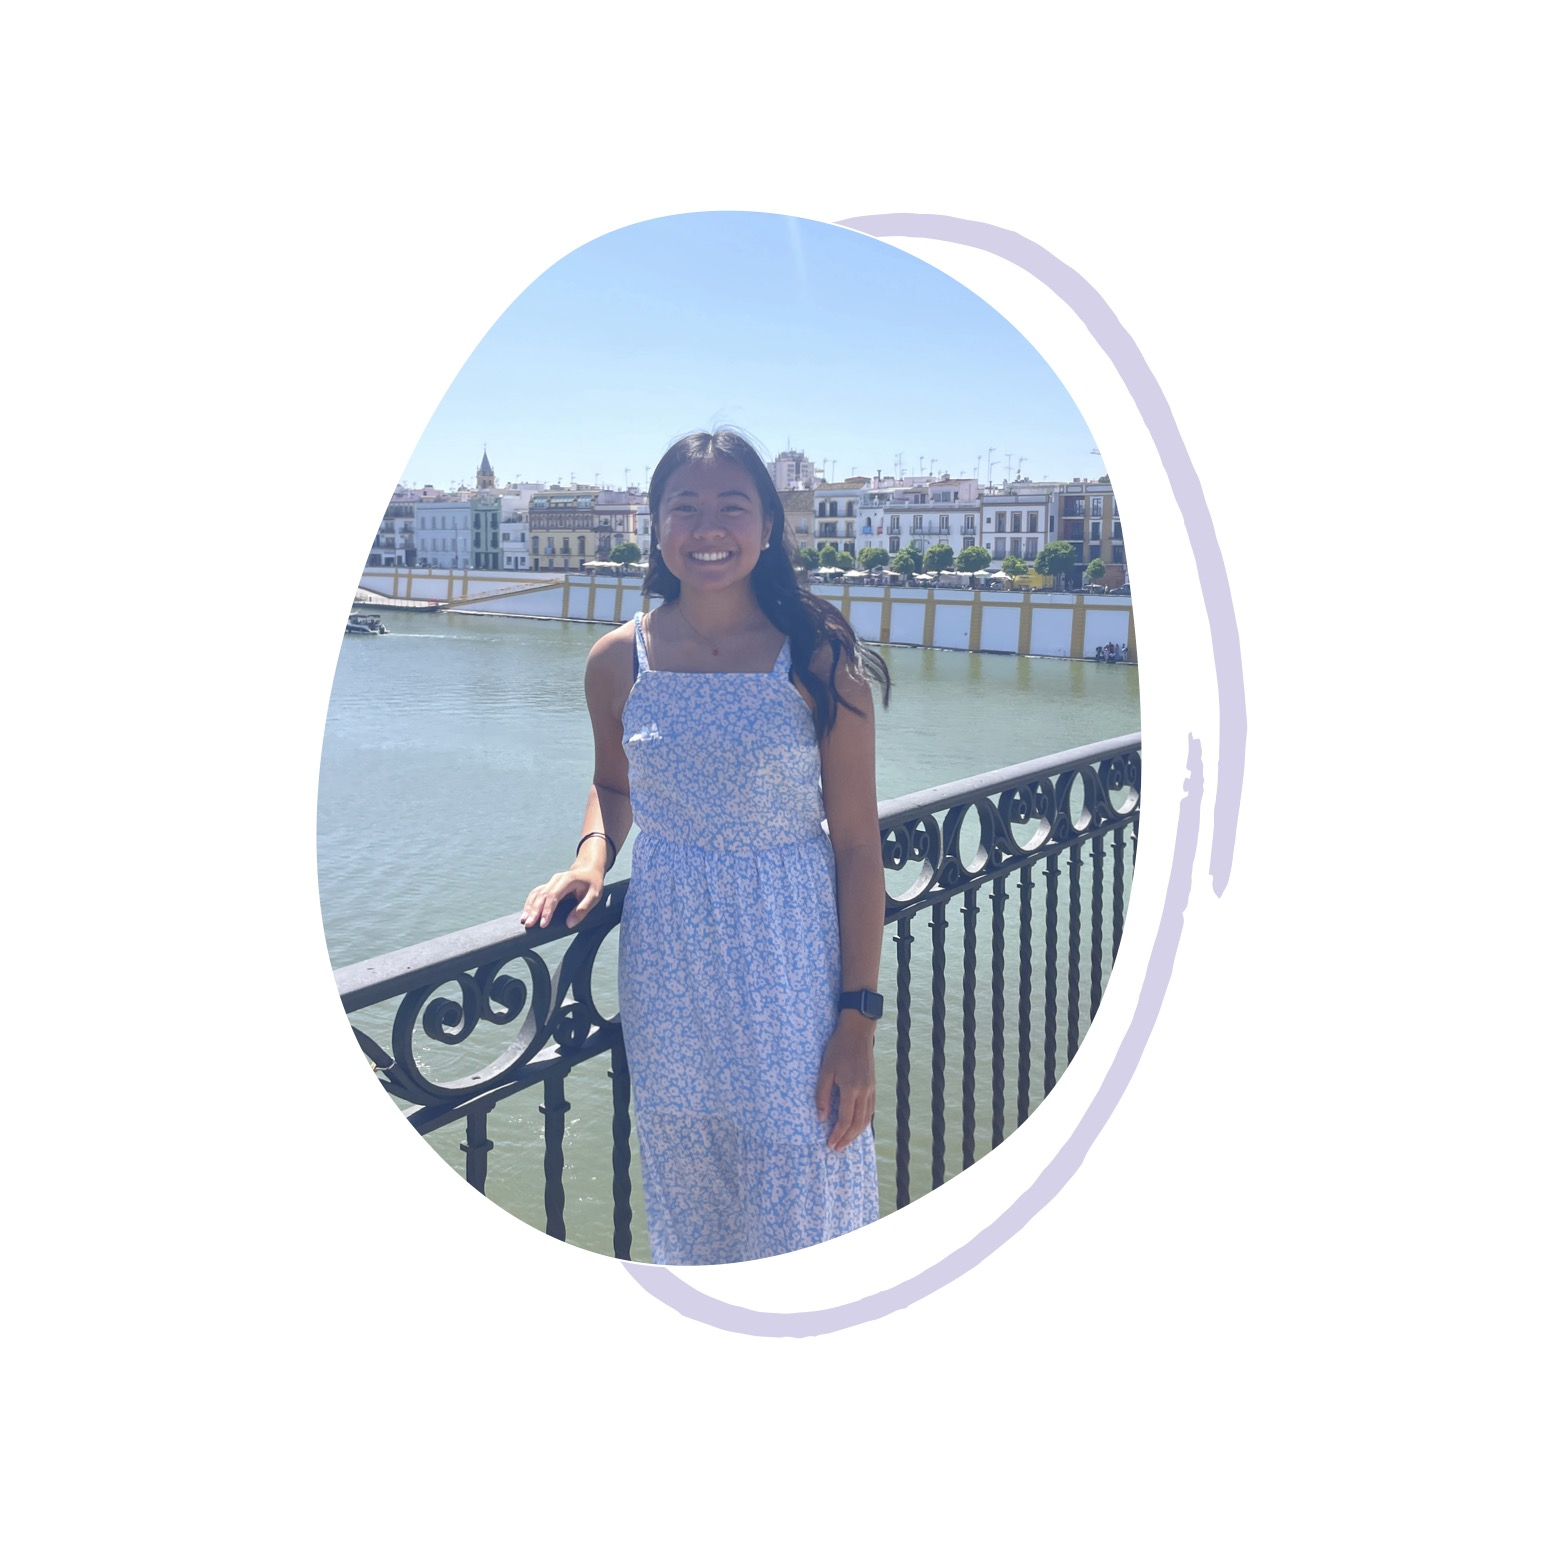
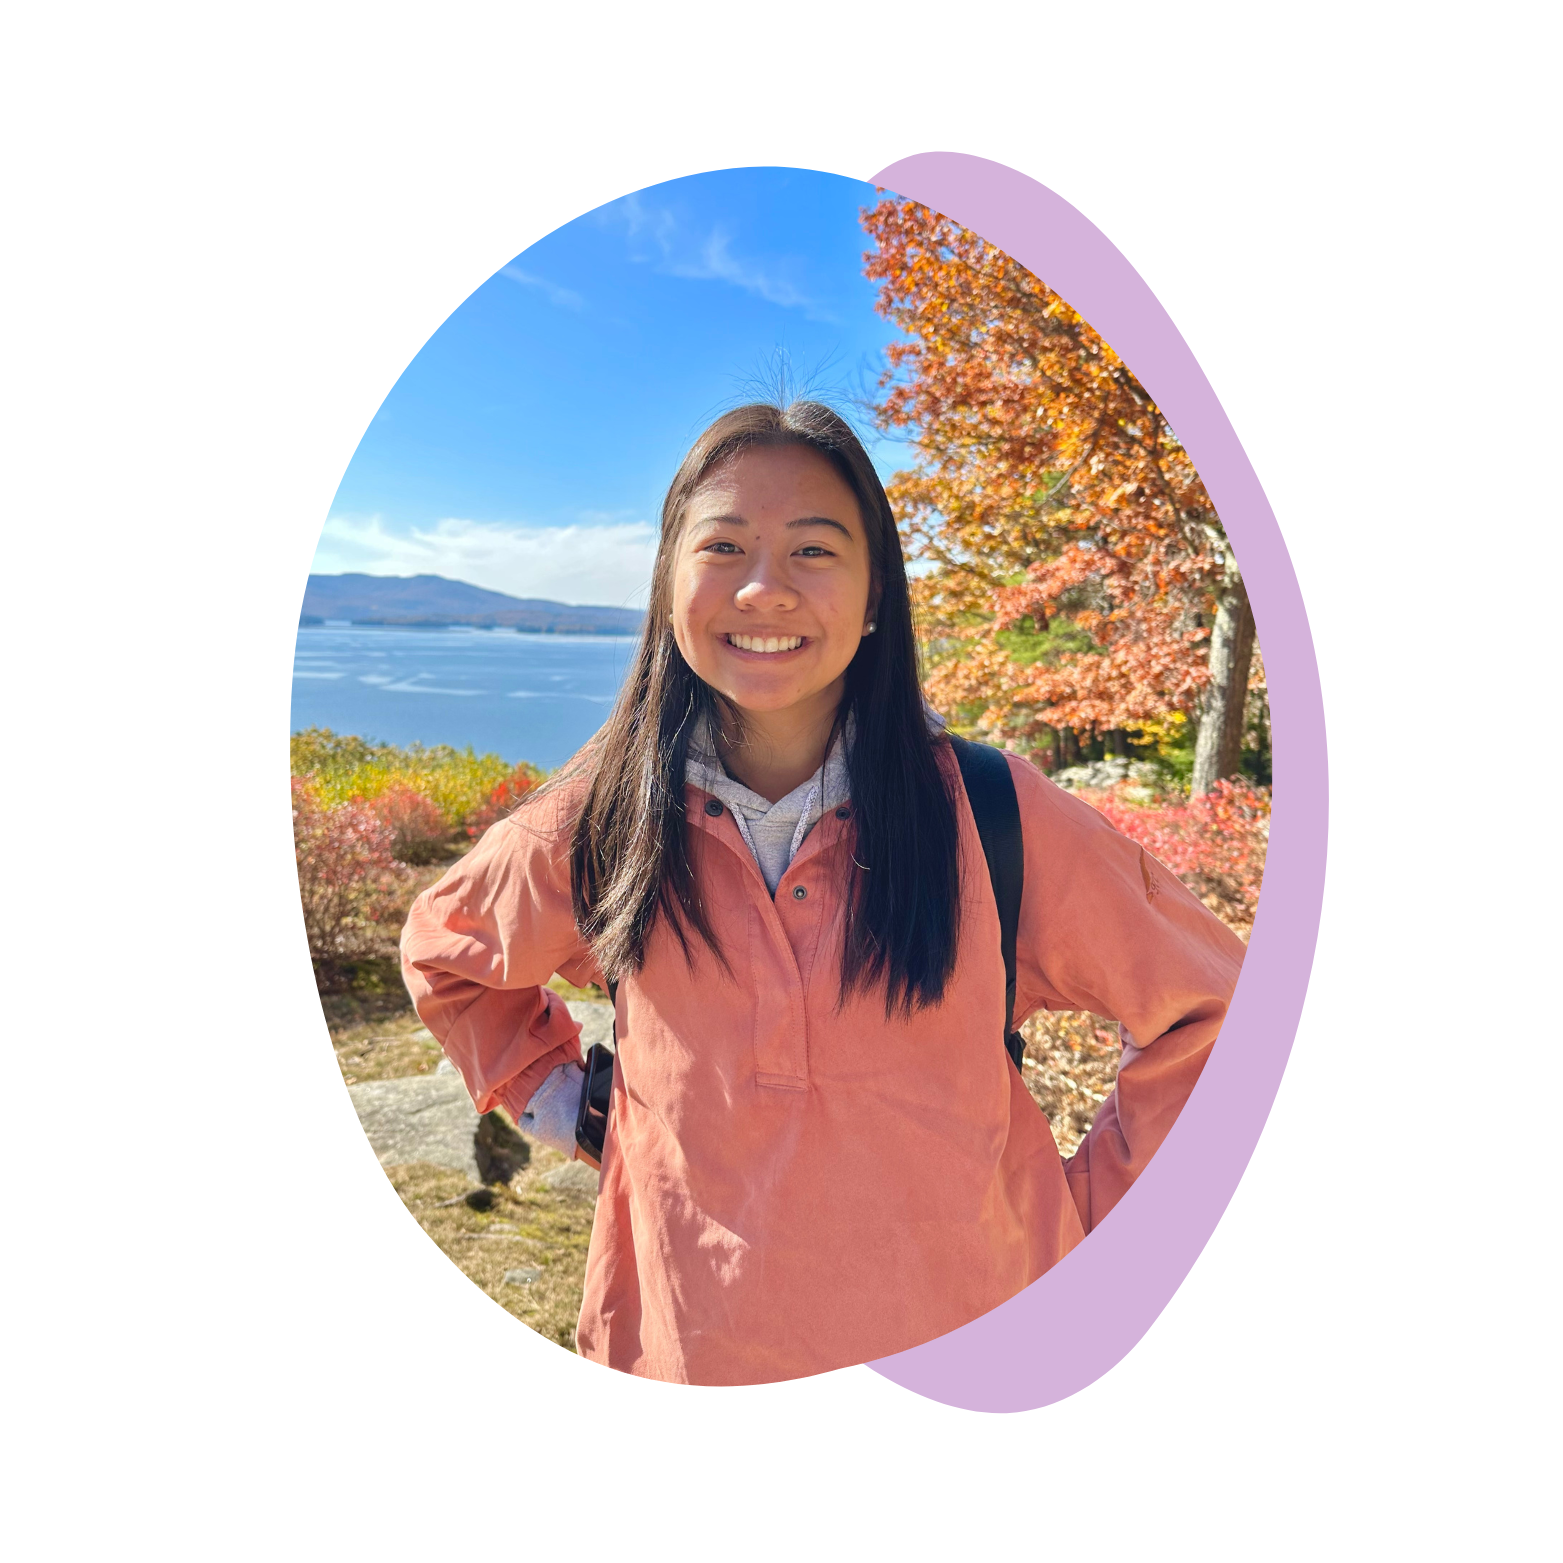
call to action button

diff --git a/src/App.js b/src/App.js
@@ -3,7 +3,7 @@ import { Routes, Route, Link } from 'react-router-dom';
 import { Container, Row, Col } from 'react-bootstrap';
 import { Navbar, Nav } from 'react-bootstrap';
 import 'bootstrap/dist/css/bootstrap.min.css';
-import './App.css'; // Assuming you have a separate CSS file for App component
+import './App.css'; 
 import EducationTimeline from './EducationTimeline';
 import AmazonInternship from './AmazonInternship';
 import Crashforces from './Crashforces';
@@ -34,11 +34,11 @@ import CrashforcesPage from './CF';
 const MainContent = () => {
   return (
     <div>
-      <div id="home" className="section">
+      <div id="homePage" className="homePage">
         <div className="mainPage">
-          <div style={{marginTop: '10%'}}>
-            <h1 className="header2" style={{marginLeft: '20%'}}>Hey there! I'm Selina</h1>
-            <div id="blurb" style={{ marginRight: '30%', marginTop: '5%', marginLeft: '20%' }}>
+          <div style={{marginTop: '10%', padding: '5%'}}>
+            <h1 className="header2" style={{}}>Hey there! I'm Selina</h1>
+            <div id="blurb" style={{ marginTop: '5%'}}>
               <p className="paragraph">A fourth-year human-computer interaction student at WPI, I have cultivated a diverse skillset that blends design and software skills through my interdisciplinary major. My background allows me to bridge the gap between design and development, leveraging innovative design skills to create user-centered solutions.</p>
               <div id="aboutMe" className="paragraph">
                 <p>In my free time, you can find me:</p>
@@ -47,20 +47,41 @@ const MainContent = () => {
                 <p>• Scrapbooking</p>
                 <p>• Spending time with family and friends</p>
               </div>
+              <div style={{marginTop: '5%', display: 'flex', gap: '10px'}}>
+                <div>
+                <button
+                  onClick={(e) => {
+                    e.preventDefault(); // Prevents default action
+                    const experienceSection = document.getElementById("experience");
+                    if (experienceSection) {
+                      experienceSection.scrollIntoView({ behavior: "smooth" });
+                    }
+                  }}
+                  className="workButton"
+                >
+                  See my work ↓
+                </button>
+                </div>
+                <div>
+                  <Link to="/play" className="playButton">
+                  Fun
+                  </Link>
+                </div>
+              </div>
             </div>
           </div>
           <div className="me">
-            <img src={me} className="me" style={{marginLeft: '-25%', marginTop: '5%'}} alt="Selina"></img>
+            <img src={me} className="me" style={{marginTop: '5%'}} alt="Selina"></img>
           </div>
         </div>
-        <div className="wave">
+        {/* <div className="wave">
           <svg xmlns="http://www.w3.org/2000/svg" viewBox="0 0 1440 320">
             <path fill="#8e7cc3" fillOpacity="1" d="M0,288L48,272C96,256,192,224,288,197.3C384,171,480,149,576,165.3C672,181,768,235,864,250.7C960,267,1056,245,1152,250.7C1248,256,1344,288,1392,304L1440,320L1440,320L1392,320C1344,320,1248,320,1152,320C1056,320,960,320,864,320C768,320,672,320,576,320C480,320,384,320,288,320C192,320,96,320,48,320L0,320Z"></path>
           </svg>
-        </div>
+        </div> */}
       </div>
-      <div className="experience" style={{marginTop: '-0.2%'}}>
-        <h1 className="headerWork">Work</h1>
+      <div id="experience" className="experience" style={{marginTop: '5%', padding: '5%'}}>
+        <h1 className="headerWork" style={{marginTop: '5%'}}>Work</h1>
         <div style={{ display: 'flex', gap: '5%', justifyContent: 'center', marginTop: '2%' }}>
           <Row xs={1} md={2} lg={3} className="g-4">
           <Col>

diff --git a/src/App.css b/src/App.css
@@ -3,6 +3,11 @@
   padding: 10px;
   background-color: #FFFCF5;
 }
+/* 
+* {
+  outline: 1px solid red;
+}
+ */
 
 .App-logo {
   height: 40vmin;
@@ -18,6 +23,52 @@
   .App-logo {
     animation: App-logo-spin infinite 20s linear;
   }
+}
+
+.workButton {
+  background-color: #7a68b0; /* Example color */
+  border-color: white;
+  border-style: solid; /* Set the border style */
+  border-width: 2px; /* Set the border thickness */
+  padding: 10px 20px;
+  font-size: 16px;
+  color: white;
+  cursor: pointer;
+  border-radius: 30px;
+  transition: background-color 0.3s ease-in-out;
+  position: relative;
+  z-index: 100;
+  height: 50px;
+  display: inline-flex;
+  align-items: center;
+}
+
+.playButton {
+  background-color: white; /* Example color */
+  border-color: #8e7cc3; /* Border color */
+  border-style: solid; /* Set the border style */
+  border-width: 2px; /* Set the border thickness */
+  padding: 10px 20px;
+  font-size: 16px;
+  color: #8e7cc3;
+  cursor: pointer;
+  border-radius: 30px;
+  transition: background-color 0.3s ease-in-out;
+  position: relative;
+  z-index: 100;
+  height: 50px;
+  display: inline-flex;
+  align-items: center;
+}
+
+.workButton:hover {
+  background-color: white;
+  color: #7a68b0;
+}
+
+.playButton:hover {
+  background-color: #7a68b0;
+  color: white;
 }
 
 .App-header {
@@ -83,27 +134,28 @@ body, html {
   overflow-x: hidden;
 }
 
+.me {
+  margin-top: 5%;
+}
 
 @media (max-width: 768px) {
   .homeText {
-    margin-right: 2%; /* Adjust text margins for smaller screens */
+    margin-right: 2%;
     margin-left: 2%;
   }
 
   img.me {
     width: 60%; /* Adjust image width */
-  }
-
-  .me {
-    margin-left: 38%;
-    margin-top: -5%;
+    display: block;
+    margin-left: -5%;
   }
 
   .mainPage {
     display: flex;
     flex-direction: column;
     margin-top: 15%;
-    margin-left: 20%
+    margin-left: 5%;
+    margin-right: 5%;
   }
 
   .paragraph {
@@ -115,15 +167,15 @@ body, html {
   }
 
   .card {
-    width: 60%; /* Set the card width to 90% on mobile */
-    margin: 0 auto; /* Center the card on mobile */
+    width: 100%;
+    margin: 0 auto;
+    padding: 2%;
   }
-  
-  /* You can also adjust the column layout */
+
   .experience {
-    padding-left: 2%; /* Reset padding on smaller screens */
-    padding-right: 2%; /* Reset padding on smaller screens */
-    background-color: #FFFFFF;
+    padding-left: 5%; /* Reset padding on smaller screens */
+    padding-right: 5%; /* Reset padding on smaller screens */
+    background-color: white !important;
   }
 
   .section {
@@ -156,5 +208,4 @@ body, html {
     color: #8e7cc3;
     margin-bottom: 10%;
   }
-
 }

diff --git a/index.html b/index.html
@@ -1,1 +1,22 @@
-<!doctype html><html lang="en"><head><meta charset="utf-8"/><link rel="icon" href="/portfolio/favicon.ico"/><meta name="viewport" content="width=device-width,initial-scale=1"/><meta name="theme-color" content="#000000"/><meta name="description" content="Web site created using create-react-app"/><link rel="apple-touch-icon" href="/portfolio/logo2.png"/><link rel="manifest" href="/portfolio/manifest.json"/><title>Selina Tran Portfolio</title><script defer="defer" src="/portfolio/static/js/main.a31873aa.js"></script><link href="/portfolio/static/css/main.f855e6bc.css" rel="stylesheet"><script defer="defer" src="/portfolio/static/js/main.0d772a50.js"></script><link href="/portfolio/static/css/main.bd2c3fd0.css" rel="stylesheet"></head><body><noscript>You need to enable JavaScript to run this app.</noscript><div id="root"></div></body></html>
+<!doctype html>
+<html lang="en">
+  <head>
+    <meta charset="utf-8" />
+    <!-- Use %PUBLIC_URL% to handle path for GitHub Pages -->
+    <link rel="icon" href="%PUBLIC_URL%/favicon.ico" />
+    <meta name="viewport" content="width=device-width,initial-scale=1" />
+    <meta name="theme-color" content="#000000" />
+    <meta name="description" content="Web site created using create-react-app" />
+    <!-- Apple touch icon, using %PUBLIC_URL% for the path -->
+    <link rel="apple-touch-icon" href="%PUBLIC_URL%/logo2.png" />
+    <link rel="manifest" href="%PUBLIC_URL%/manifest.json" />
+    <title>Selina Tran Portfolio</title>
+    <!-- JS and CSS files will automatically use the right path, so no need to add /portfolio here -->
+    <script defer="defer" src="%PUBLIC_URL%/static/js/main.a31873aa.js"></script>
+    <link href="%PUBLIC_URL%/static/css/main.f855e6bc.css" rel="stylesheet" />
+  </head>
+  <body>
+    <noscript>You need to enable JavaScript to run this app.</noscript>
+    <div id="root"></div>
+  </body>
+</html>

diff --git a/src/PasswordProtect.js b/src/PasswordProtect.js
@@ -31,13 +31,15 @@ const ProtectedRoute = ({ element: Component, ...rest }) => {
                 <div className="password-form">
                     <h2 style={{marginTop: '1%', marginBottom: '3%'}}> Have the password?</h2>
                     <form onSubmit={handlePasswordSubmit}>
+                        <div style={{display: 'flex', gap: '2%'}}>
                         <input
                             type="password"
                             value={password}
                             onChange={handlePasswordChange}
                             placeholder="Password"
                         />
-                        <button type="submit">Show me the details!</button>
+                        <button type="submit">Show me!</button>
+                        </div>
                     </form>
                     {error && <p style={{ color: 'red' }}>{error}</p>}
                 </div>

diff --git a/src/passwordprotect.css b/src/passwordprotect.css
@@ -1,4 +1,3 @@
-/* PasswordProtect.css */
 .password-form {
     display: flex;
     flex-direction: column;
@@ -6,20 +5,33 @@
     margin-top: 20%;
 }
 
-.password-form input {
+.password-form div {
+    display: flex;
+    align-items: center;
+    gap: 8px;
+}
+
+.password-form input,
+.password-form button {
     padding: 10px;
-    margin-bottom: 10px;
-    border: 1px solid #ccc;
+    font-size: 16px;
+    line-height: 1.2;
+    box-sizing: border-box;
+    height: 40px; /* Ensures consistent height */
     border-radius: 4px;
 }
 
+.password-form input {
+    border: 1px solid #ccc;
+}
+
 .password-form button {
-    padding: 10px;
     border: none;
     background-color: #007bff;
     color: white;
-    border-radius: 4px;
     cursor: pointer;
+    width: auto;
+    min-width: 100px;
 }
 
 .password-form button:hover {

diff --git a/src/NavbarComponent.js b/src/NavbarComponent.js
@@ -25,7 +25,7 @@ const NavbarComponent = () => {
     <>
       <Navbar bg="light" variant="light" expand="lg" fixed="top" onSelect={handleSelect}>
         <div className="container-fluid">
-          <Navbar.Brand as={Link} to="/" onClick={handleBrandClick} eventKey="brand" style={{ marginLeft: '10%' }}>
+          <Navbar.Brand as={Link} to="/#homePage" onClick={handleBrandClick} eventKey="brand" style={{ marginLeft: '10%' }}>
             Selina Tran
           </Navbar.Brand>
           <Navbar.Toggle aria-controls="basic-navbar-nav" />
